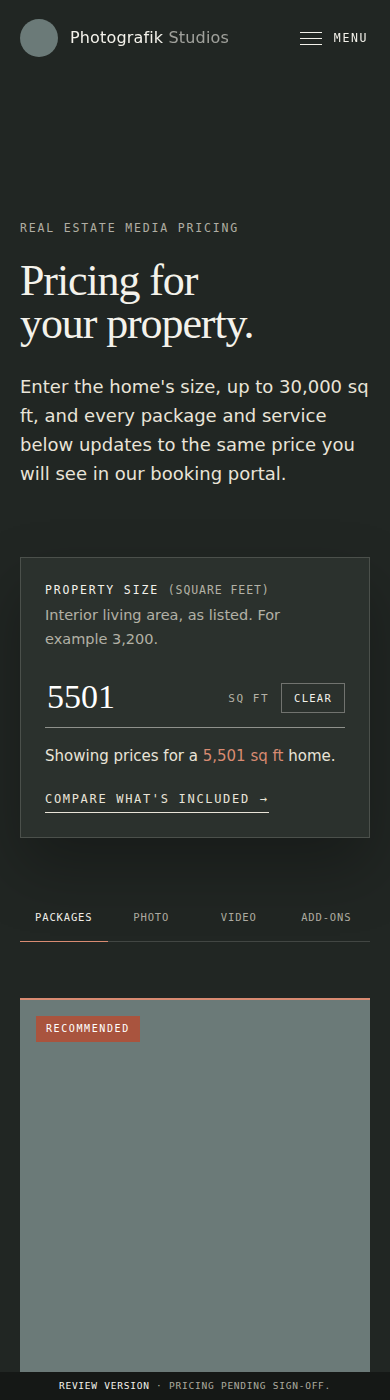
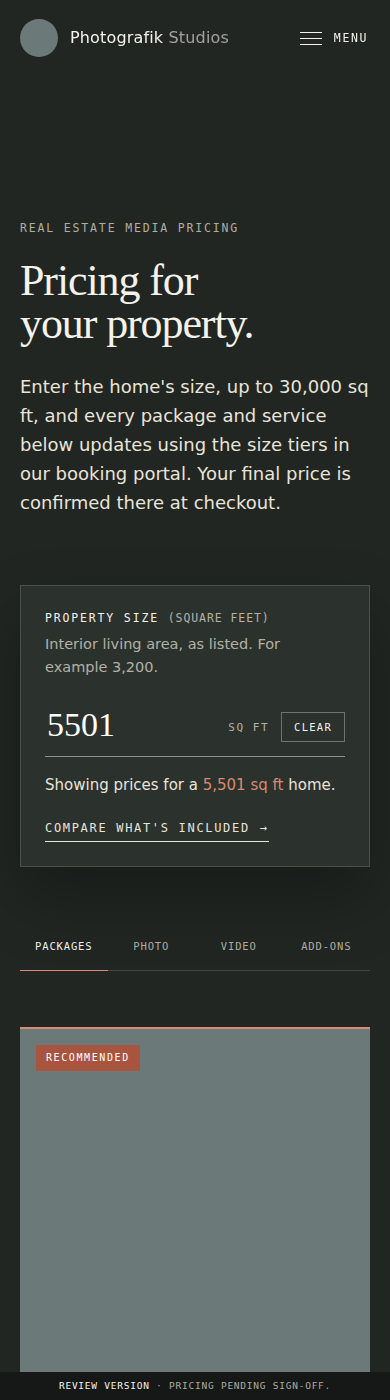
Rights gate: rights-pending media never enter a deployed build or /v/ files; WCAG fixes (tag/scope contrast, headings, focus ring, target sizes); softer HDPH price-match wording; Work reel marked pending; legacy fetch helper; a11y spot audit script
Claude-Session: https://claude.ai/code/session_01QdXDHTFB7SVkVxiv2k6vdC

diff --git a/src/pages.js b/src/pages.js
@@ -42,7 +42,7 @@ export function buildPages(ctx) {
     <h1 class="display">${title}</h1>
     ${lede ? `<p class="lede">${lede}</p>` : ''}
     ${cta || hf.button ? `<div class="actions">${cta}${hf.button}</div>` : ''}
-    ${video && allMediaById[video.credit || video.film || video.loop] ? `<p class="hero-credit">On screen: ${esc(allMediaById[video.credit || video.film || video.loop].title)}</p>` : video?.creditText ? `<p class="hero-credit">${esc(video.creditText)}</p>` : ''}
+    ${video && allMediaById[video.credit || video.film || video.loop] ? `<p class="hero-credit">On screen: ${esc(allMediaById[video.credit || video.film || video.loop].title)}</p>` : video?.creditText ? `<p class="hero-credit">${esc(video.creditText)} ${video.pending ? needsApproval({ approval: 'pending' }, video.pending) : ''}</p>` : ''}
   </div>
   ${hf.stage}
   ${video ? motionToggle : ''}
@@ -616,7 +616,7 @@ ${fnTeaser('real-estate-media')}
   <div class="wrap page-hero__inner">
     <p class="eyebrow">Real estate media pricing</p>
     <h1 class="display">Pricing for your property.</h1>
-    <p class="lede">Enter the home's size, up to ${pricing.maxSqft.toLocaleString('en-US')} sq ft, and every package and service below updates to the same price you will see in our booking portal.</p>
+    <p class="lede">Enter the home's size, up to ${pricing.maxSqft.toLocaleString('en-US')} sq ft, and every package and service below updates using the size tiers in our booking portal. Your final price is confirmed there at checkout.</p>
   </div>
 </section>
 <section class="section section--pricing">
@@ -635,6 +635,7 @@ ${fnTeaser('real-estate-media')}
     </div>
     <p class="sr-only" id="price-live" aria-live="polite" aria-atomic="true"></p>
 
+    <h2 class="sr-only">Packages, services and add-ons</h2>
     <div class="tabs" data-tabs>
       <div class="tabs__list" role="tablist" aria-label="Price categories">
         ${join(tabs, (t, i) => `<button type="button" role="tab" class="tabs__tab" id="tab-${t.id}" aria-controls="panel-${t.id}" aria-selected="${i === 0}" tabindex="${i === 0 ? 0 : -1}">${t.label}</button>`)}
@@ -643,7 +644,7 @@ ${fnTeaser('real-estate-media')}
     </div>
 
     <div class="pricing-notes">
-      <p><strong>About these prices.</strong> These match our booking portal, HD Photo Hub. They are base prices, not an all-in total: travel fees and sales tax are added at checkout where they apply. Rental use, commercial property and non-standard licensing are quoted separately.</p>
+      <p><strong>About these prices.</strong> These are calculated from the size tiers in our booking portal, HD Photo Hub, and are confirmed there at checkout. ${needsApproval({ approval: pricing.releaseApproved ? 'approved' : 'pending' }, 'A few HD Photo Hub size bands are being reconciled with James before launch')} They are base prices, not an all-in total: travel fees and sales tax are added at checkout where they apply. Rental use, commercial property and non-standard licensing are quoted separately.</p>
       <p>Homes over ${pricing.maxSqft.toLocaleString('en-US')} square feet: <a href="/contact?type=real-estate-large">request a custom quote</a>.</p>
       <p>You will confirm property size, package and date in our booking portal, HD Photo Hub. ${bookBtn('pricing_notes', 'Go to booking', 'link-arrow')}</p>
     </div>
@@ -1007,7 +1008,7 @@ ${csPhotos.length || csClips.length ? `<section class="section section--ink on-d
       title: 'Find the work <em>that fits.</em>',
       lede: 'Listings, architecture, brands and studio sessions. Filter by service and industry below, and play any film right on the page.',
       cta: '<a class="btn btn--solid" href="#work-filters">Browse the work</a>',
-      video: { loop: 'work-reel', creditText: 'On screen: a silent reel of published listing, architecture and brand films.' },
+      video: { loop: 'work-reel', creditText: 'On screen: a silent reel of published listing, architecture and brand films.', pending: 'Work reel cut awaiting James\'s review' },
     })}
 <section class="section work-head on-dark" id="work-filters">
   <div class="wrap">
@@ -1074,6 +1075,7 @@ ${splitCta('Have a project like these?')}`,
     })}
 <section class="section">
   <div class="wrap">
+    <h2 class="sr-only">How we work</h2>
     <div class="features">
       <div class="feature reveal"><h3 class="h3">Quality over quantity</h3><p>A complete, considered set instead of a padded gallery of near-duplicates. Every frame earns its place.</p></div>
       <div class="feature reveal"><h3 class="h3">Marketing judgment</h3><p>We think about where the media will be used and what it needs to do there, then plan the shoot around it.</p></div>

diff --git a/src/assets/styles.css b/src/assets/styles.css
@@ -734,3 +734,11 @@ button.gcard__open:hover .sw-card__play { transform: scale(1.06); }
 /* Hero films move and can be bright: a deeper left-side scrim keeps the headline and lede at AA contrast. */
 .page-hero--video .page-hero__media::after, .hero--video .hero__media::after { background: linear-gradient(90deg, rgba(21,24,22,.88) 0%, rgba(21,24,22,.66) 45%, rgba(21,24,22,.18) 82%), linear-gradient(180deg, rgba(21,24,22,.5) 0%, rgba(21,24,22,0) 24%, rgba(21,24,22,0) 55%, rgba(21,24,22,.78) 100%); }
 @media (max-width: 700px) { .page-hero--video .page-hero__media::after, .hero--video .hero__media::after { background: linear-gradient(180deg, rgba(21,24,22,.55) 0%, rgba(21,24,22,.4) 30%, rgba(21,24,22,.92) 72%); } }
+/* WCAG 2.2 fixes from the Session 7 audit */
+.tag { color: var(--rust-deep) !important; }
+.on-dark .tag, .section--ink .tag { color: var(--rust-soft) !important; }
+.scope-tag--out { color: var(--rust-deep); }
+.sizer__row:focus-within { border-color: var(--rust); box-shadow: 0 0 0 2px var(--rust); }
+.fn-crumbs a { display: inline-block; padding: 6px 0; }
+.form input[type="radio"], .form input[type="checkbox"] { width: 24px; height: 24px; min-height: 0; accent-color: var(--rust-deep); vertical-align: middle; }
+.cmp__size-row:focus-within { box-shadow: 0 0 0 2px var(--rust); }

diff --git a/src/assets/pricing.js b/src/assets/pricing.js
@@ -28,7 +28,7 @@ function render(sqft) {
       hint.textContent = 'Enter square footage for your price.';
     } else if (s.kind === 'band') {
       el.innerHTML = `<span class="pcard__label">Price for ${s.band.label}</span> <span class="pcard__amount">${formatUSD(s.amount)}</span>`;
-      hint.textContent = 'Same price as our booking portal. Travel fees may apply.';
+      hint.textContent = 'Based on our booking portal\'s size tiers. Your price is confirmed at checkout; travel fees may apply.';
     } else {
       el.innerHTML = `<span class="pcard__label">Over ${s.max.toLocaleString('en-US')} sq ft</span> <span class="pcard__amount"><a href="/contact?type=real-estate-large" data-track="custom_quote_click">Request a custom quote</a></span>`;
       hint.textContent = 'We scope larger homes individually.';
